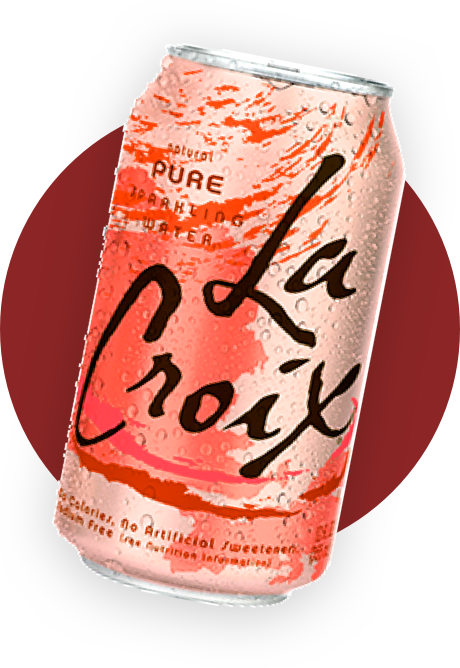
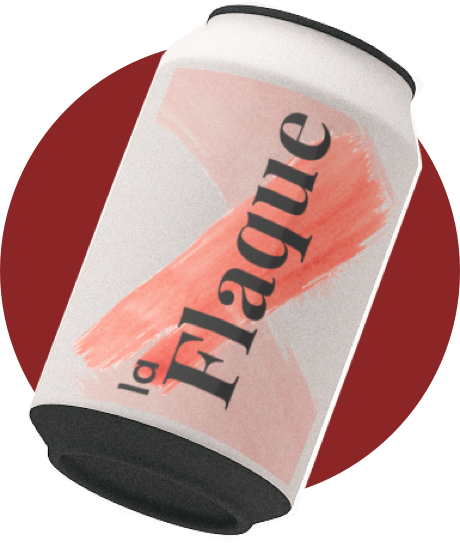
code tidy up and custom product image

diff --git a/frontend/app/containers/HomePage/index.js b/frontend/app/containers/HomePage/index.js
@@ -26,12 +26,13 @@ import { HomeSt, ResultsSt, ControlSt } from './style';
 const INTERVAL_SPEED = 1000;
 
 class HomePage extends React.Component {
-  constructor() {
-    super();
+  constructor(props) {
+    super(props);
 
     this.state = {
       currentIndex: 0,
       playing: false,
+      desktopButtonData: props.buttonData,
     };
   }
 
@@ -44,6 +45,7 @@ class HomePage extends React.Component {
   componentWillReceiveProps(nextProps) {
     const { buttonData } = this.props;
 
+    // For the case of demo, grab the model data for desktop
     const desktopButtonData = nextProps.buttonData.reduce((list, data) => {
       if (data.combination[2] === 0) list.push(data);
       return list;
@@ -51,7 +53,10 @@ class HomePage extends React.Component {
 
     // Jump slider to the most recent model
     if (nextProps.buttonData.length !== buttonData.length) {
-      this.setState({ currentIndex: desktopButtonData.length - 1 });
+      this.setState({
+        desktopButtonData,
+        currentIndex: desktopButtonData.length - 1,
+      });
     }
   }
 
@@ -59,13 +64,7 @@ class HomePage extends React.Component {
   * Called on an interval to step through models
   */
   nextModel = () => {
-    const { currentIndex } = this.state;
-    const { buttonData } = this.props;
-
-    const desktopButtonData = buttonData.reduce((list, data) => {
-      if (data.combination[2] === 0) list.push(data);
-      return list;
-    }, []);
+    const { currentIndex, desktopButtonData } = this.state;
 
     // Increment until finished, in which case we cancel the interval
     if (currentIndex < desktopButtonData.length - 1) {
@@ -85,13 +84,7 @@ class HomePage extends React.Component {
   * Play / pause button click handler
   */
   togglePlaying = () => {
-    const { buttonData } = this.props;
-    const { playing, currentIndex } = this.state;
-
-    const desktopButtonData = buttonData.reduce((list, data) => {
-      if (data.combination[2] === 0) list.push(data);
-      return list;
-    }, []);
+    const { playing, currentIndex, desktopButtonData } = this.state;
 
     // Use setInterval to manage the model timeline
     if (playing) {
@@ -115,12 +108,7 @@ class HomePage extends React.Component {
   };
 
   render() {
-    const { playing, currentIndex } = this.state;
-    const { buttonData } = this.props;
-    const desktopButtonData = buttonData.reduce((list, data) => {
-      if (data.combination[2] === 0) list.push(data);
-      return list;
-    }, []);
+    const { playing, currentIndex, desktopButtonData } = this.state;
 
     const curr = desktopButtonData[currentIndex].combination;
     const currentButtonData = {

diff --git a/frontend/app/containers/TestingPage/index.js b/frontend/app/containers/TestingPage/index.js
@@ -60,18 +60,24 @@ class TestingPage extends React.PureComponent {
   render() {
     const { buttonData, embedded, embedButtonData } = this.props;
     let { text, position } = embedded ? embedButtonData : '';
+    // Default to desktop
+    let target = 0;
 
     if (!embedded) {
-      const desktopButtonData = buttonData.reduce((list, data) => {
-        if (data.combination[2] === 0) list.push(data);
+      // Show the mobile model
+      if (window.innerWidth < 768) {
+        target = 1;
+      }
+
+      const deviceButtonData = buttonData.reduce((list, data) => {
+        if (data.combination[2] === target) list.push(data);
         return list;
       }, []);
 
-      const curr = desktopButtonData[desktopButtonData.length - 1].combination;
-      // eslint-disable-next-line prefer-destructuring
-      text = curr[0];
-      // eslint-disable-next-line prefer-destructuring
-      position = curr[1];
+      if (deviceButtonData.length > 0) {
+        const curr = deviceButtonData[deviceButtonData.length - 1].combination;
+        [text, position] = curr;
+      }
     }
 
     /*
@@ -115,7 +121,7 @@ class TestingPage extends React.PureComponent {
               )}
               <span>La Flaque</span>
               <h1>de boue</h1>
-              {position === 5 && (
+              {position === 4 && (
                 <ButtonSt onClick={this.handleButtonClick} type="button">
                   {text}
                 </ButtonSt>
@@ -123,7 +129,7 @@ class TestingPage extends React.PureComponent {
               <div className="rating">
                 <img src={rating} alt="Rating" />
               </div>
-              {position === 4 && (
+              {position === 5 && (
                 <ButtonSt onClick={this.handleButtonClick} type="button">
                   {text}
                 </ButtonSt>
@@ -143,7 +149,7 @@ class TestingPage extends React.PureComponent {
                 <strong>de boue</strong> hits the perfect spot between fizz and
                 flavour.
               </p>
-              {position === 2 && (
+              {position === 0 && (
                 <ButtonSt onClick={this.handleButtonClick} type="button">
                   {text}
                 </ButtonSt>
@@ -157,7 +163,7 @@ class TestingPage extends React.PureComponent {
                 </ButtonSt>
               )}
               <span className="price">$2.40 / can</span>
-              {position === 0 && (
+              {position === 2 && (
                 <ButtonSt onClick={this.handleButtonClick} type="button">
                   {text}
                 </ButtonSt>
